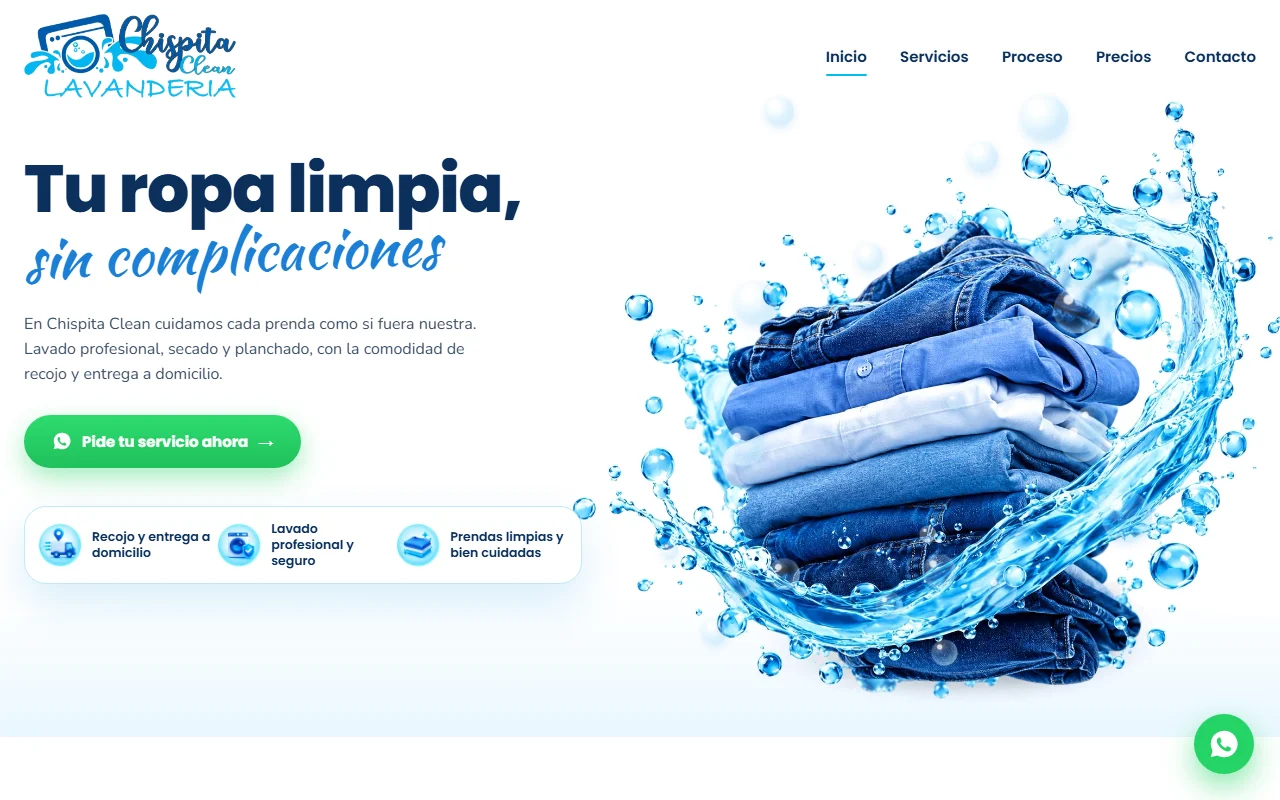
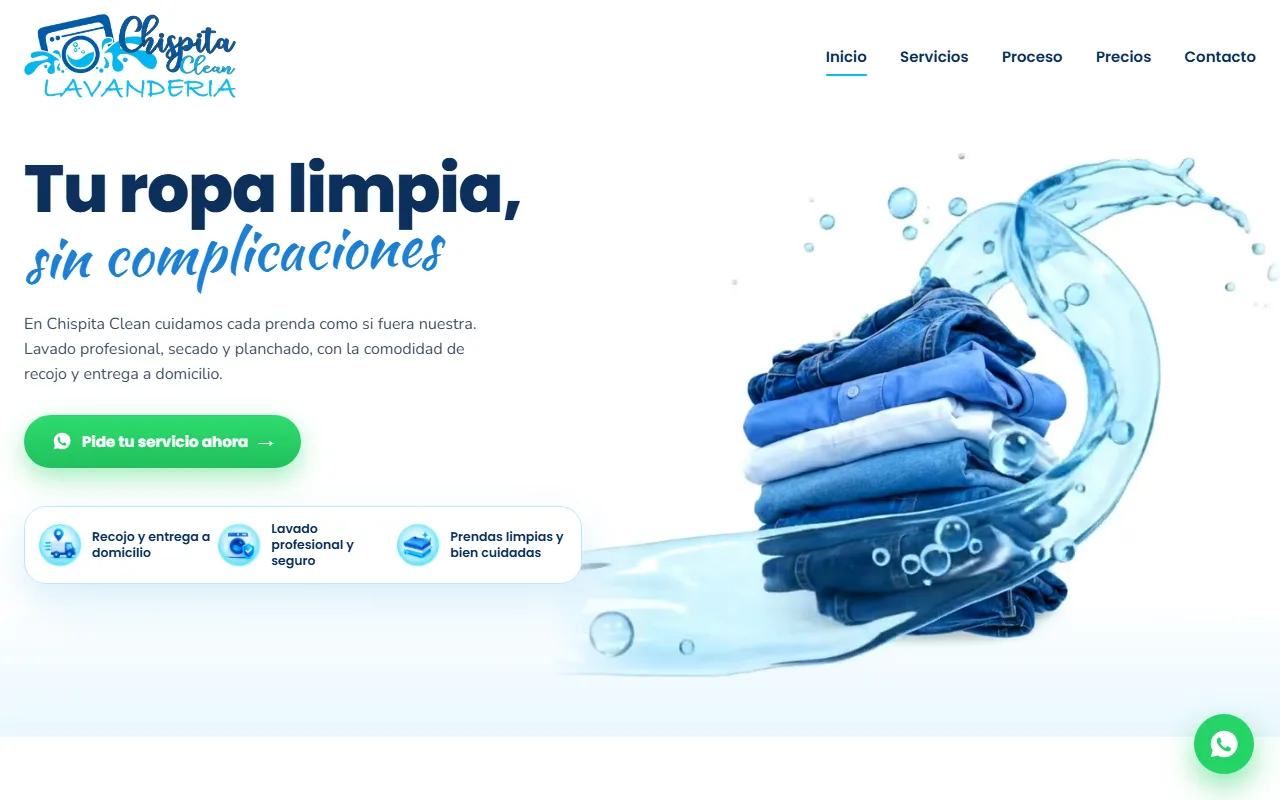
Chispita Clean: captura actualizada con el color del header actual; Productos: se quita Video Detector y entra Generador de Cotizaciones (próximamente)

Changed region(s): [[0.4375, 0.125, 1.0, 0.875], [0.5938, 0.125, 0.625, 0.1562]]

diff --git a/productos/index.html b/productos/index.html
@@ -195,12 +195,12 @@
         </article>
 
         <article class="projects__card">
-          <span class="projects__badge"><span class="projects__badge-dot"></span><span data-i18n="productos.badge.digital">Herramienta digital</span></span>
+          <span class="projects__badge"><span class="projects__badge-dot"></span><span data-i18n="productos.badge.negocios">Herramienta para negocios</span></span>
           <div class="projects__media"></div>
           <div class="projects__body">
-            <h3 class="projects__card-title" data-i18n="productos.videoDetector.title">Video Detector &amp; Downloader</h3>
+            <h3 class="projects__card-title" data-i18n="productos.cotizaciones.title">Generador de Cotizaciones</h3>
             <div class="projects__card-row">
-              <p class="projects__card-text" data-i18n="productos.videoDetector.text">Detecta los vídeos disponibles en una página, identifica sus formatos y permite elegir cuál descargar.</p>
+              <p class="projects__card-text" data-i18n="productos.cotizaciones.text">Crea cotizaciones profesionales en PDF con tu logo y tus precios, listas para enviar a tus clientes en segundos.</p>
               <span class="projects__link projects__link--disabled" data-i18n="productos.proximamente">Próximamente</span>
             </div>
           </div>
@@ -343,7 +343,7 @@
     </div>
   </dialog>
 
-  <script src="../js/i18n.js" defer></script>
+  <script src="../js/i18n.js?v=2" defer></script>
   <script src="../js/menu-mobile.js" defer></script>
   <script src="../js/chatbot.js" defer></script>
   <script src="../js/auth-gate.js" defer></script>

diff --git a/js/i18n.js b/js/i18n.js
@@ -167,9 +167,9 @@
           title: 'MS Video Downloader',
           text: 'Descarga vídeos desde URLs compatibles y elige entre los formatos y calidades disponibles.'
         },
-        videoDetector: {
-          title: 'Video Detector & Downloader',
-          text: 'Detecta los vídeos disponibles en una página, identifica sus formatos y permite elegir cuál descargar.'
+        cotizaciones: {
+          title: 'Generador de Cotizaciones',
+          text: 'Crea cotizaciones profesionales en PDF con tu logo y tus precios, listas para enviar a tus clientes en segundos.'
         },
         usarHerramienta: 'Usar herramienta →',
         usarCalculadora: 'Usar calculadora →',
@@ -341,9 +341,9 @@
           title: 'MS Video Downloader',
           text: 'Download videos from supported URLs and choose from the available formats and qualities.'
         },
-        videoDetector: {
-          title: 'Video Detector & Downloader',
-          text: 'Detect videos available on a webpage, identify their formats, and choose which one to download.'
+        cotizaciones: {
+          title: 'Quotation Generator',
+          text: 'Create professional PDF quotes with your logo and prices, ready to send to your clients in seconds.'
         },
         usarHerramienta: 'Use tool →',
         usarCalculadora: 'Use calculator →',

diff --git a/index.html b/index.html
@@ -287,7 +287,7 @@
           <a class="projects-ring__item" href="portafolio.html" draggable="false"><img src="assets/img/maison-dulce-hero.webp" alt="Captura del sitio web de Maison Dulce" width="1280" height="800" loading="lazy" draggable="false"></a>
           <a class="projects-ring__item" href="portafolio.html" draggable="false"><img src="assets/img/maison-veda-hero.webp" alt="Captura del sitio web de MAISON VEDA" width="1280" height="800" loading="lazy" draggable="false"></a>
           <a class="projects-ring__item" href="portafolio.html" draggable="false"><img src="assets/img/lumen-studio-hero.webp" alt="Captura del sitio web de Lumen Studio" width="1280" height="800" loading="lazy" draggable="false"></a>
-          <a class="projects-ring__item" href="portafolio.html" draggable="false"><img src="assets/img/chispita-clean-hero.webp" alt="Captura del sitio web de Chispita Clean Lavandería" width="1280" height="800" loading="lazy" draggable="false"></a>
+          <a class="projects-ring__item" href="portafolio.html" draggable="false"><img src="assets/img/chispita-clean-hero.webp?v=2" alt="Captura del sitio web de Chispita Clean Lavandería" width="1280" height="800" loading="lazy" draggable="false"></a>
         </div>
       </div>
 

diff --git a/portafolio.html b/portafolio.html
@@ -190,7 +190,7 @@
         <article class="projects__card" data-category="landing">
           <span class="projects__badge"><span class="projects__badge-dot"></span>Landing Page</span>
           <div class="projects__media">
-            <img src="assets/img/chispita-clean-hero.webp" alt="Captura del sitio web de Chispita Clean Lavandería" class="projects__media-img">
+            <img src="assets/img/chispita-clean-hero.webp?v=2" alt="Captura del sitio web de Chispita Clean Lavandería" class="projects__media-img">
           </div>
           <div class="projects__body">
             <h3 class="projects__card-title">Chispita Clean Lavandería</h3>
